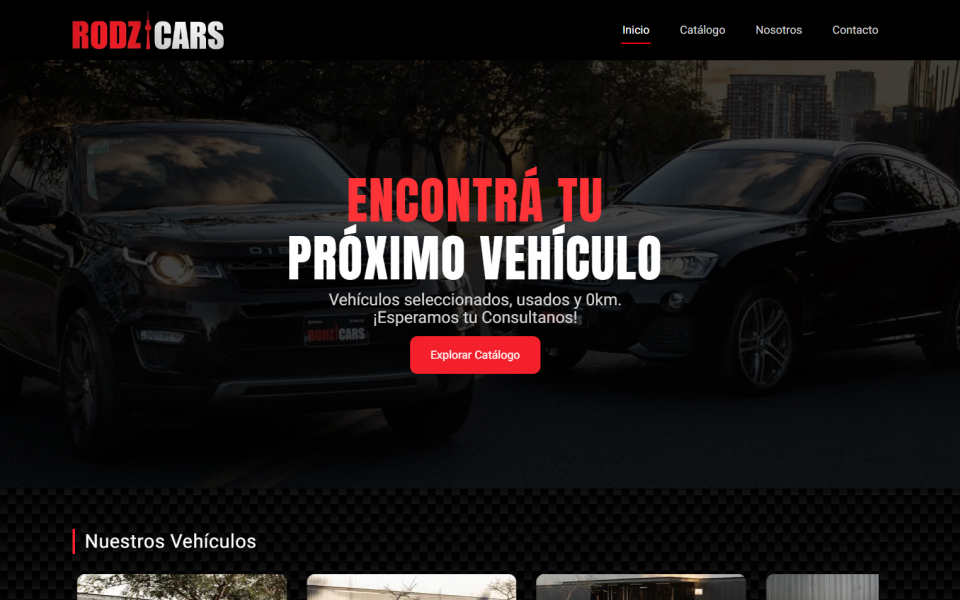
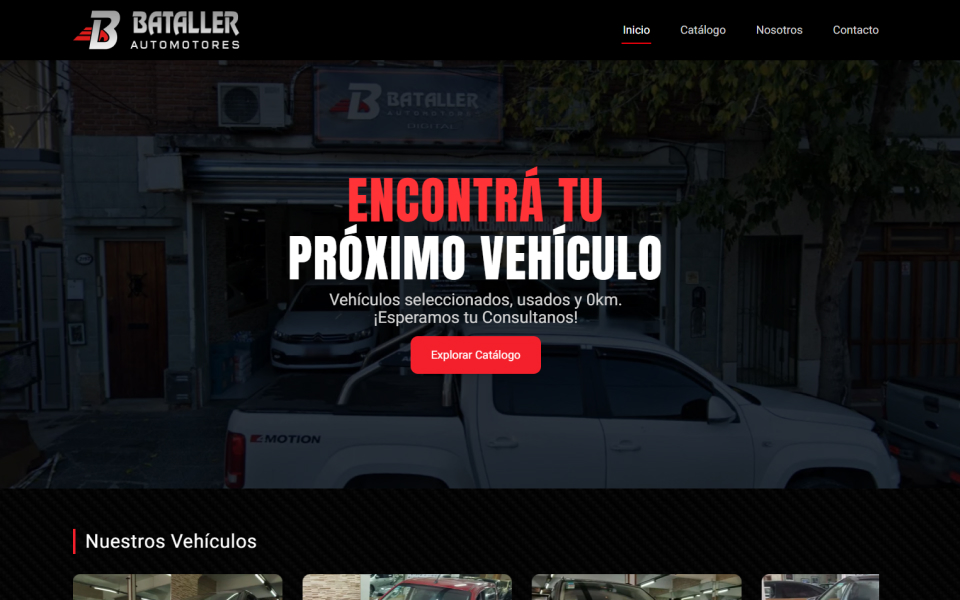
og image

diff --git a/src/app/(public)/nosotros/page.tsx b/src/app/(public)/nosotros/page.tsx
@@ -75,9 +75,8 @@ const NosotrosPage = () => {
                         {company.name}
                       </span>{' '}
                       nació de la pasión por los automóviles y el compromiso con
-                      la excelencia en el servicio. Con más de 30 años de
-                      experiencia en el mercado, nos hemos dedicado a
-                      seleccionar cuidadosamente cada vehículo.
+                      la excelencia en el servicio. Desde nuestros inicios, nos
+                      hemos dedicado a seleccionar cuidadosamente cada vehículo.
                     </p>
                   </div>
 